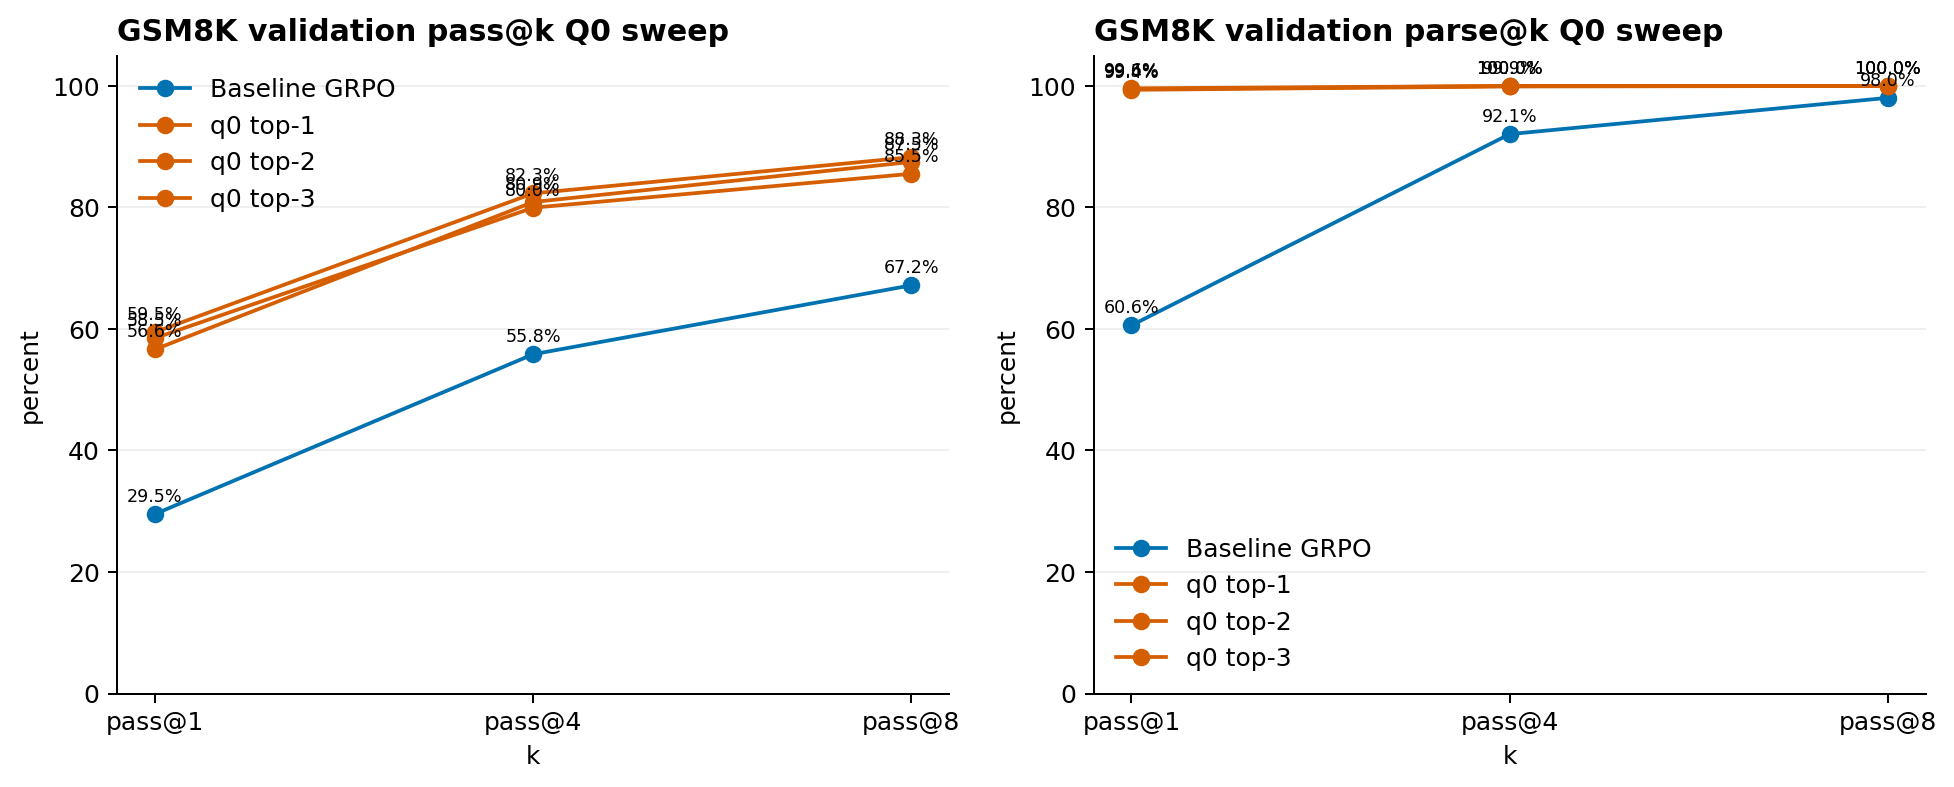
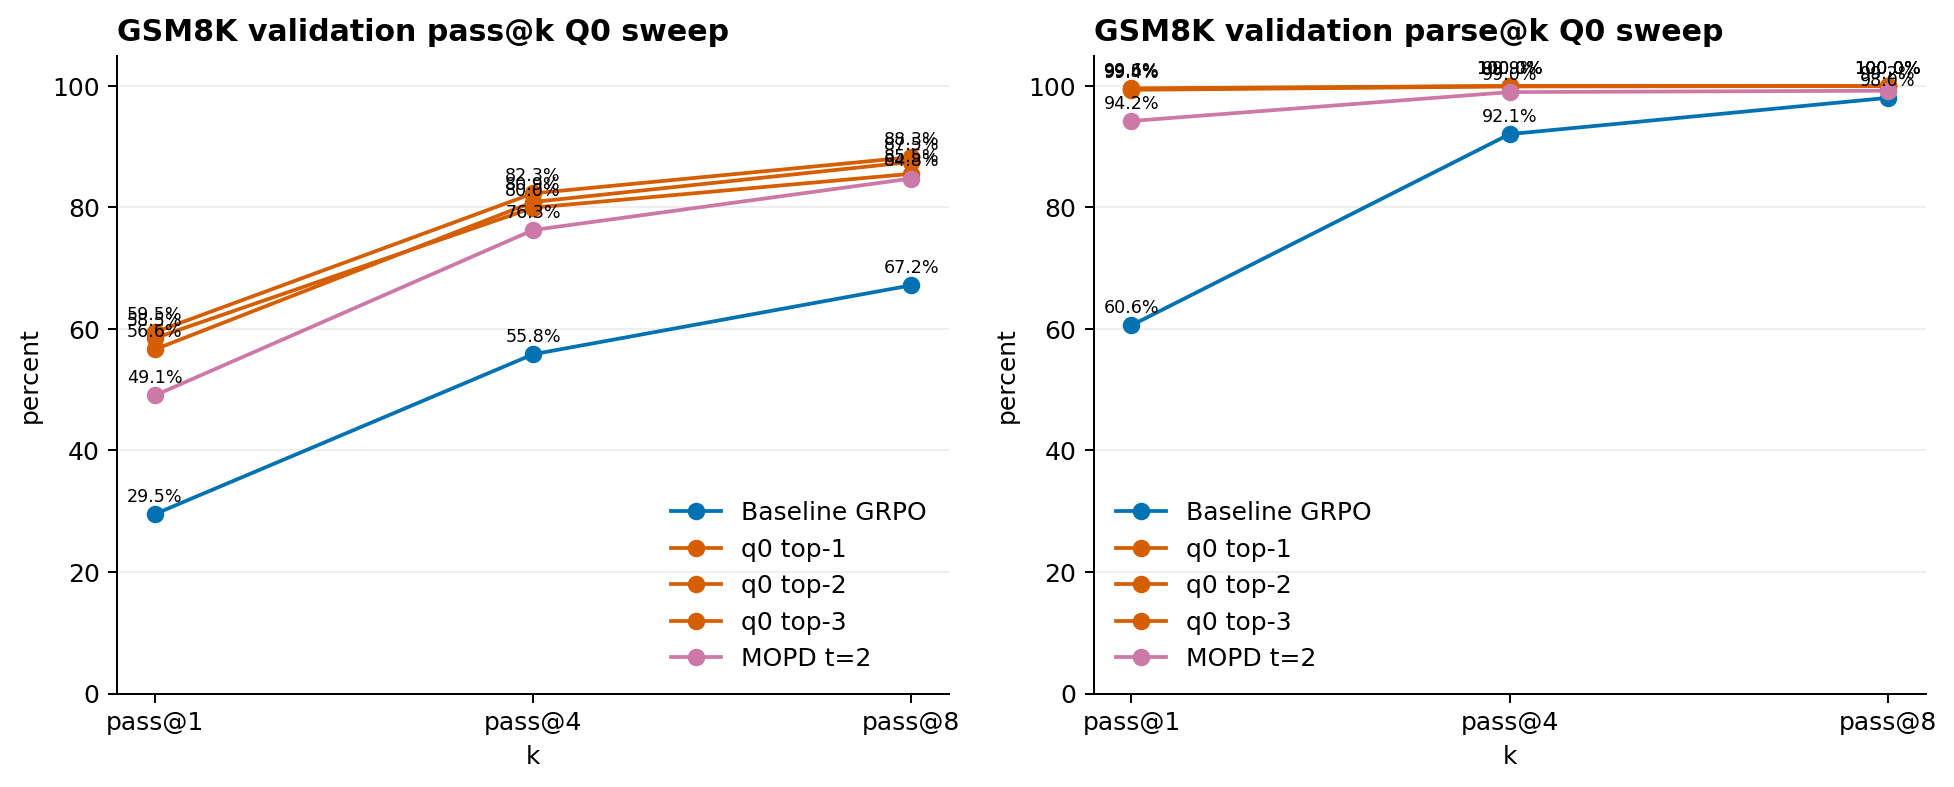
Add MOPD to GSM8K pass@k sweep chart; remove stale pre-reorg figures

diff --git a/experiments/qwen_1_5b/plot_suite.py b/experiments/qwen_1_5b/plot_suite.py
@@ -189,20 +189,25 @@ def main():
         data = load_json(path.name)
         if data:
             passk[data["name"]] = data
+    mopd_sweep_best = max(json.loads((ROOT / "runs/mopd_qwen1_5b_laptop_t2/validation_results.json").read_text())["candidates"], key=lambda x: x["pass_at_8"])
+    passk["mopd_t2"] = {"result": mopd_sweep_best}
     fig, axes = plt.subplots(1, 2, figsize=(11, 4.5))
-    names = ["baseline_grpo", "q0_k1", "q0_k2", "q0_k3"]
-    display_names = {"baseline_grpo": "Baseline GRPO", "q0_k1": "q0 top-1", "q0_k2": "q0 top-2", "q0_k3": "q0 top-3"}
+    names = ["baseline_grpo", "q0_k1", "q0_k2", "q0_k3", "mopd_t2"]
+    display_names = {"baseline_grpo": "Baseline GRPO", "q0_k1": "q0 top-1", "q0_k2": "q0 top-2", "q0_k3": "q0 top-3", "mopd_t2": "MOPD t=2"}
+    sweep_colors = {"baseline_grpo": COLORS["baseline"], "mopd_t2": COLORS["mopd_t2"]}
     x = np.arange(3)
     for name in names:
         data = passk.get(name)
+        color = sweep_colors.get(name, COLORS["q0"])
         vals = [pct(data["result"].get(k)) if data else np.nan for k in ["pass_at_1", "pass_at_4", "pass_at_8"]]
-        axes[0].plot(x, vals, marker="o", label=display_names[name], color=COLORS["baseline"] if name == "baseline_grpo" else COLORS["q0"])
+        axes[0].plot(x, vals, marker="o", label=display_names[name], color=color)
         label_line_points(axes[0], x, vals, percent=True)
         parse = [pct(data["result"].get(k)) if data else np.nan for k in ["parse_at_1", "parse_at_4", "parse_at_8"]]
-        axes[1].plot(x, parse, marker="o", label=display_names[name], color=COLORS["baseline"] if name == "baseline_grpo" else COLORS["q0"])
+        axes[1].plot(x, parse, marker="o", label=display_names[name], color=color)
         label_line_points(axes[1], x, parse, percent=True)
+        source = "runs/mopd_qwen1_5b_laptop_t2/validation_results.json" if name == "mopd_t2" else (f"experiments/q0_mopd/results/passk_{name}_gsm8kval.json" if data else "pending")
         for metric, value in zip(["pass_at_1", "pass_at_4", "pass_at_8", "parse_at_1", "parse_at_4", "parse_at_8"], (vals + parse)):
-            summary.append(result_row("GSM8K", "train_val_slice", 256, name, metric, None if np.isnan(value) else value / 100, f"experiments/q0_mopd/results/passk_{name}_gsm8kval.json" if data else "pending", "available" if data else "missing"))
+            summary.append(result_row("GSM8K", "train_val_slice", 256, name, metric, None if np.isnan(value) else value / 100, source, "available" if data else "missing"))
     for ax, title, keys in [(axes[0], "GSM8K validation pass@k Q0 sweep", [1, 4, 8]), (axes[1], "GSM8K validation parse@k Q0 sweep", [1, 4, 8])]:
         style(ax, title, "k", "percent")
         ax.set_xticks(x, [f"pass@{k}" for k in keys])
